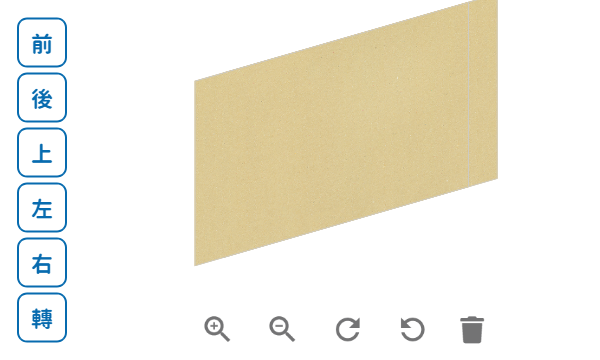
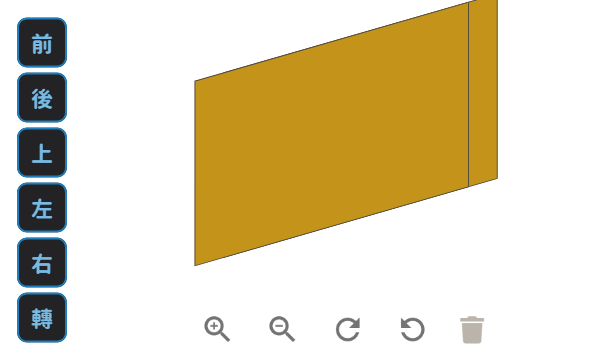
引入 alert.js 與 選色調暗

diff --git a/page/customized.php b/page/customized.php
@@ -178,7 +178,7 @@ try {
   while( $mateRow = $material -> fetch() ){
 ?>                                          
                                     <div class="pic">
-                                        <img class="cusPic" src="../<?php echo $mateRow['materialPath']?>" alt="">
+                                        <img class="cusPic" src="<?php echo $mateRow['materialPath']?>" alt="">
                                     </div>
 
 <?php
@@ -259,7 +259,7 @@ try {
                 <div class="section section_15" id="section_15" style="flex-wrap:wrap;">
                     <div class="lefCard" style="flex:2;">
                             <div class="cardBox">
-                                    <img  id="large" src="../<?php echo $mateRow['materialPath']?>" alt="">
+                                    <img  id="large" src="<?php echo $mateRow['materialPath']?>" alt="">
                                 </div>  
                             </div>
 <?php
@@ -534,7 +534,7 @@ try {
   <div class="step-content-foot">
         <button type="button" class="step none"  id="btn1">上一步</button>
         <button type="button" class="step"  id="btn2" disabled="true">下一步</button>
-        <button type="button" class="active out step cart" name="finish"  id="<?php echo "{$arr_row[49]['snackNo']}|{$arr_row[49]['snackPrice']}|1" ?>" data-cusBox="test" data-cusCard="../images/customized/card.png" data-cusSound="test" >加入購物車</button>
+        <button type="button" class="active out step cart" name="finish"  id="<?php echo "{$arr_row[49]['snackNo']}|{$arr_row[49]['snackPrice']}|1" ?>" data-cusBox="../images/blair/customized.png" data-cusCard="../images/customized/card.png" data-cusSound="test" >加入購物車</button>
   </div>
 <script>
 var steps = $(".step-content-body"), i = 0;
@@ -636,7 +636,7 @@ $( "#cardSureBtn" ).click(function() {
 
 
       $("#boxSureBtn").click(function() {
-          alert('成功將客製箱加入囉～');
+          alertBox('成功將客製箱加入囉～');
       html2canvas($(".leftBox")[0]).then(function(canvas) {
           var $div = $(".img1");
           $div.empty();
@@ -667,7 +667,7 @@ $( "#cardSureBtn" ).click(function() {
                                 $("#myImage").val("");
                             }
                         }else{
-                        alert(xhr.status);
+                        alertBox(xhr.status);
                         }
                 }
             };
@@ -679,7 +679,7 @@ $( "#cardSureBtn" ).click(function() {
 
 
     $("#cardSureBtn").click(function() {
-          alert('成功將客製卡片加入囉～');
+          alertBox('成功將客製卡片加入囉～');
       html2canvas($(".lefCard")[0]).then(function(canvas) {
           var $div = $(".img3");
           $div.empty();
@@ -710,7 +710,7 @@ $( "#cardSureBtn" ).click(function() {
                                 $("#myCard").val("");
                             }
                         }else{
-                        alert(xhr.status);
+                        alertBox(xhr.status);
                         }
                 }
             };
@@ -1161,6 +1161,24 @@ $( "#cardSureBtn" ).click(function() {
                         //取按鈕背景色
                         var tarColor = window.getComputedStyle(e.target, null).getPropertyValue("background-color");
                         // console.log(`tarColor: ${tarColor}`);
+                        //調暗
+                        var edit = tarColor.replace("rgb","").replace("(","").replace(")","");
+                        var newArr=[];
+                        var per=0.15; //趴數，越小越暗
+                        edit=edit.split(", ");
+                        // console.log(`edit: ${edit}`);
+                        edit.forEach(el => {
+                            el=parseInt(el*per);
+                            // console.log(`el= ${el}`);
+                            newArr.push(el);
+                        });
+                        // console.log(`edit: ${edit}`);
+                        // console.log(`newArr: ${newArr}`);
+                        tarColor=`rgb(${newArr[0]},${newArr[1]},${newArr[2]})`;
+                        // console.log(`tarColor: ${tarColor}`);
+                        
+
+                        
                         // console.log(`tarColor type: ${typeof (tarColor)}`);
 
                         //更換目標背景色
@@ -2150,7 +2168,7 @@ $( "#cardSureBtn" ).click(function() {
             })
         }
     </script>
-
+<!-- 卡片音效 src 傳到data-cussound鈕 -->
     <script>
     $(function () {
         $("#soundAdd").on("click",addSound);
